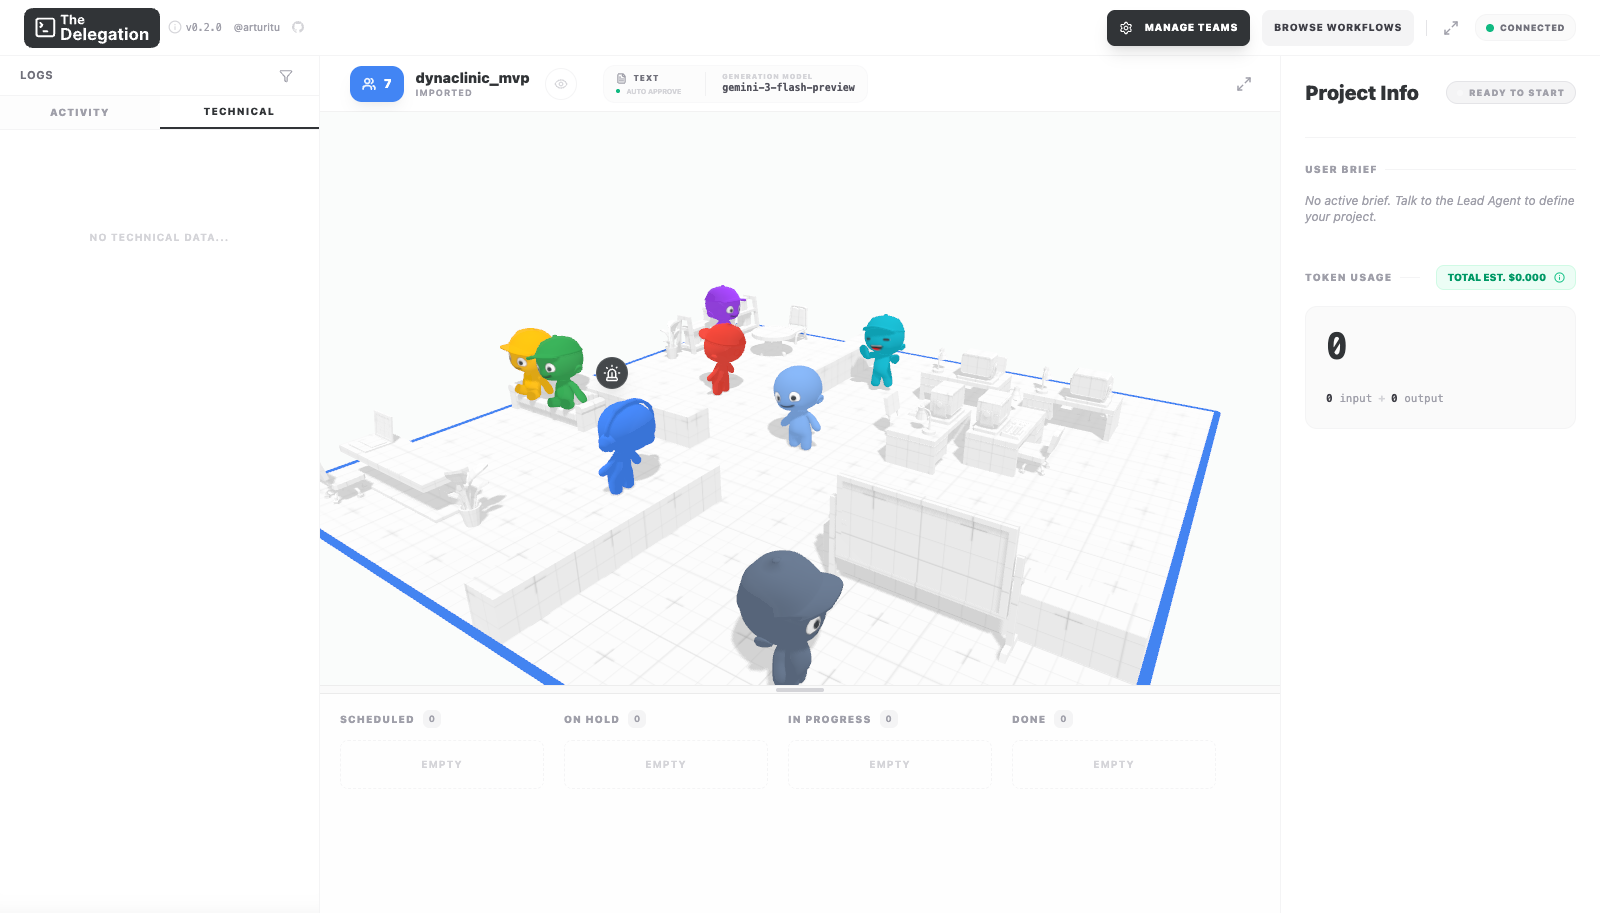
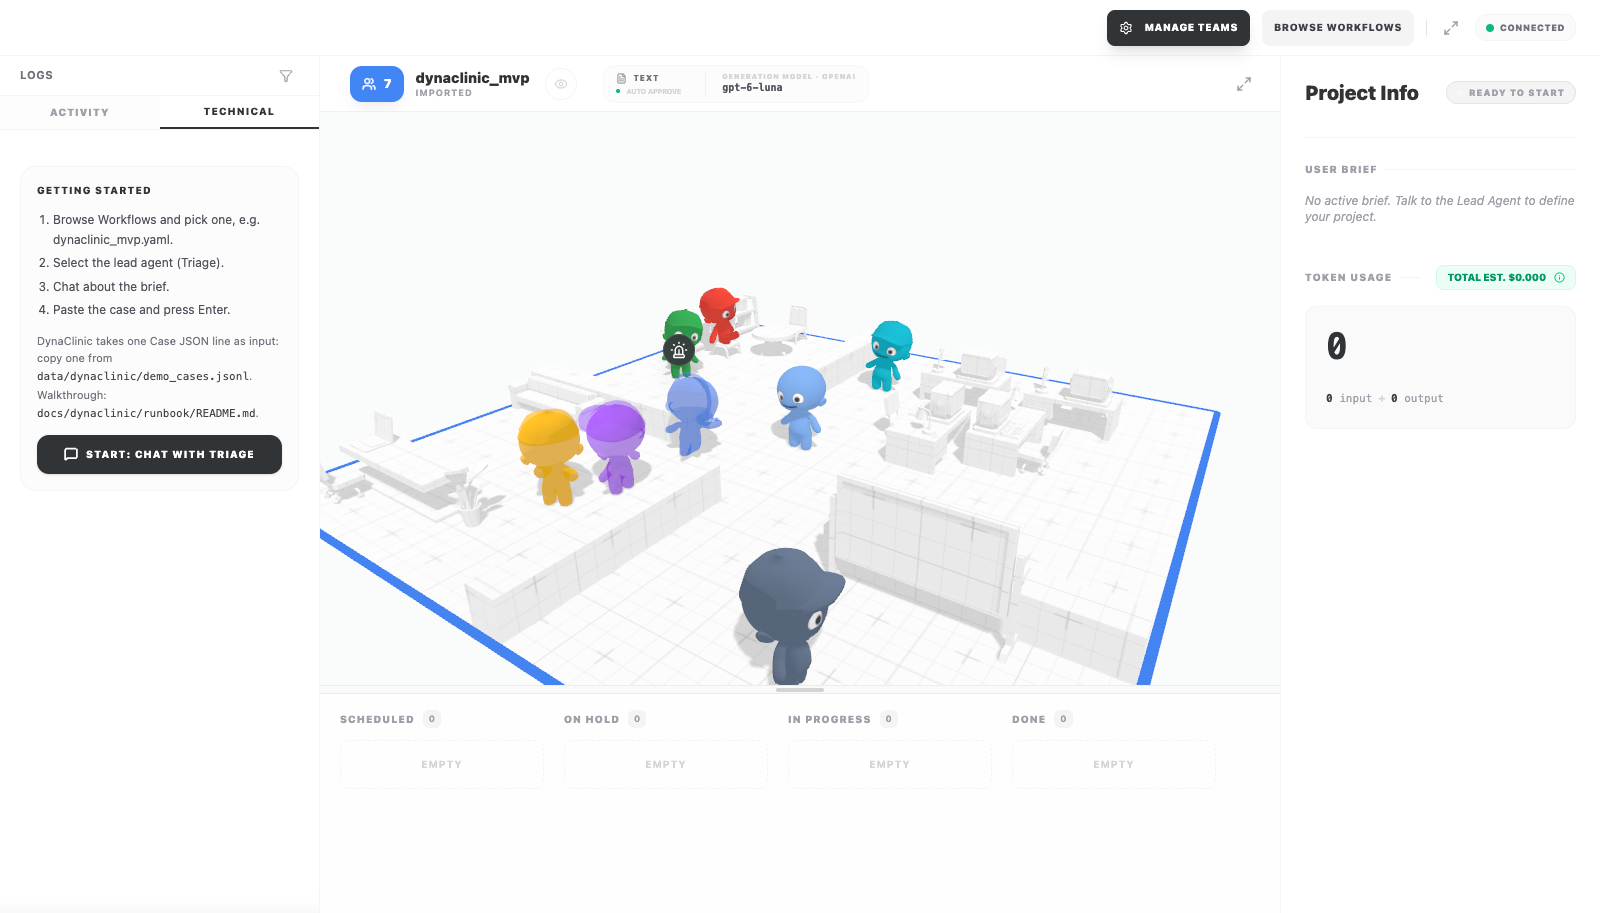
docs(dynaclinic): runbook recaptured with OpenAI default, Getting Started card and closable views; Scenario C switch rate

diff --git a/docs/dynaclinic/runbook/README.md b/docs/dynaclinic/runbook/README.md
@@ -1,13 +1,13 @@
 # DynaClinic in 3D: runbook
 
-How to start the servers, open the three.js office (the-delegation), and replay the three DynaClinic routes from the research proposal: single Primary Care Agent, collaborative Integrated Care Team, and the adversarial switch to the Clinical Critic. Every screenshot here is from a real run on 2026-10-27 (code 231dd81, model gpt-6-luna), not a mock-up.
+How to start the servers, open the three.js office (the-delegation), and replay the three DynaClinic routes from the research proposal: single Primary Care Agent, collaborative Integrated Care Team, and the adversarial switch to the Clinical Critic. Every screenshot here is from a real run on 2026-10-27, not a mock-up. Model gpt-6-luna through the OpenAI API (any OpenAI-compatible endpoint works). Scenarios A and B and the UI shots were captured at 0d3ed91. Scenario C's adversarial run was captured earlier at 231dd81. Between the two commits the DynaClinic routing and scoring code did not change; 0d3ed91 only adds a report of the model name.
 
 Time: about 5 minutes to start, about 30 seconds per case.
 
 ## 1. Prerequisites (once)
 
 - `uv sync` in the repo root, and `npm install` in `the-delegation/`.
-- `.env` in the repo root with `OPENAI_API_KEY` (and optionally `DYNACLINIC_MODEL=gpt-6-luna`). Do not commit it.
+- `.env` in the repo root with `OPENAI_API_KEY`, and optionally `OPENAI_BASE_URL` for an OpenAI-compatible server and `DYNACLINIC_MODEL` (here `gpt-6-luna`). Do not commit it. The 3D app defaults to provider OpenAI and shows the model the backend actually uses (`GET /api/models` returns `default: {provider: "openai", model}`). Gemini stays selectable for text, and is the only option for image, music and video teams.
 - Ports 6400 (backend) and 3100 (3D view) free. Port 3000 often belongs to another local project, which is why the 3D view runs on 3100.
 
 ## 2. Start the servers (two terminals)
@@ -29,10 +29,12 @@ Check: `curl -s localhost:6400/health` returns 200, and http://localhost:3100/th
 1. Open http://localhost:3100/the-delegation/.
 2. Click BROWSE WORKFLOWS, then `dynaclinic_mvp.yaml`.
 3. Reload the page. The scene rebuilds its characters only on load.
-4. The team badge reads `7 dynaclinic_mvp`. Click it to see the hierarchy: Triage (Meta-Controller, lead) over Primary Care and the Integrated Care Team, plus Critic and Synthesizer.
+4. The team badge reads `7 dynaclinic_mvp`, and next to it `GENERATION MODEL · OPENAI gpt-6-luna`. The LOGS panel on the left shows a Getting Started card.
+5. Optional: click the team badge to open the design view (workflow graph and character slots). Close it with the X at the top right, Escape, or a click outside.
 
+![office with the DynaClinic team and the Getting Started card](01-office-team.png)
+![design view with its close button](00b-design-view-close-button.png)
 ![team hierarchy](00-team-hierarchy.png)
-![office with the DynaClinic team](01-office-team.png)
 
 | Character | Node (`yaml_instance/dynaclinic_mvp.yaml`) | Proposal role |
 |---|---|---|
@@ -45,12 +47,14 @@ Check: `curl -s localhost:6400/health` returns 200, and http://localhost:3100/th
 
 ## 4. Run a case
 
-1. Click the lead agent (Triage, blue with headset). Characters wander, so find it first; the right panel shows "Triage, LEAD AGENT".
-2. Click CHAT ABOUT THE BRIEF.
-3. Paste one Case JSON line (below) into the message box and press Enter.
+1. In the Getting Started card on the left, click START: CHAT WITH TRIAGE. It selects the lead agent (Triage, the Meta-Controller) and opens its chat on the right. You can also click the Triage character and then CHAT ABOUT THE BRIEF, but the characters wander.
+2. Paste one Case JSON line (below) into the message box.
+3. Press Enter.
+
+![Getting Started opens the Triage chat](02a-getting-started-chat-open.png)
 4. Watch the office and the kanban: each node becomes a task in IN PROGRESS and then DONE, and the agent characters walk to a desk while they work.
 5. When PROJECT READY appears, click VIEW FINAL OUTPUT for the DynaClinic report (gate verdicts + FINAL ANSWER).
-6. To run another case: reload the page (or use the reset in the project panel), then repeat from step 1.
+6. Close the output with its X or Escape. To run another case, reload the page and repeat from step 1.
 
 The ACTIVITY tab in the left LOGS panel lists every node entry/exit and edge taken. It is the quickest way to see which route the Meta-Controller chose.
 
@@ -70,7 +74,7 @@ What to look for:
 - Triage replies in the chat: `ROUTE: LOW ... deterministic tier LOW (feature score 3)`.
 - Only Primarycare goes to IN PROGRESS. The care team, Critic and Synthesizer stay idle: the Meta-Controller kept the cheap single-agent architecture.
 - Report: `GATE: PASS` (A_SAD pass, T_SAD pass, S_NAP stub), FINAL ANSWER A. The sulfonamide option B is named as conflicting with the allergy.
-- Live run: 19 s, one backend run.
+- Live run: 19 s, one backend run (exactly one POST /api/workflow/execute).
 
 ### Scenario B: high complexity, specialists agree -> collaborative Blackboard
 
@@ -83,9 +87,9 @@ Case: `demo-contested-01` (anticoagulated 74-year-old with an acute subdural hem
 What to look for:
 - Triage: `ROUTE: HIGH ... deterministic tier HIGH (feature score 12)`.
 - Careteam appears three times in IN PROGRESS (Diagnostic Imaging, Pathology/Lab, Pharmacology) and the three characters work in parallel. They post hypotheses, a probability over the options, and atomic claims to the shared Blackboard.
-- DivergenceGate (live output): `MODE: COLLABORATIVE, Divergence 0.14 (tau 0.25); top-1: imaging B, pathology A (abstains), pharmacology B`. Pathology had no basis to choose, so it abstained and did not vote. The gate goes straight to Synthesizer; the Critic stays idle.
+- DivergenceGate (live output): `MODE: COLLABORATIVE, Divergence 0.07 (tau 0.25); top-1: imaging B, pathology B, pharmacology B`. The gate goes straight to Synthesizer; the Critic stays idle. In an earlier run of the same case, Pathology abstained (an even split, so it does not vote) and divergence was 0.14; the route was the same.
 - Report: FINAL ANSWER B, GATE: PASS. Continuing apixaban (A) and thrombolysis (D) are the unsafe options.
-- Live run: 24 s.
+- Live run: 28 s.
 
 ### Scenario C: specialists diverge -> adversarial switch to the Clinical Critic
 
@@ -101,7 +105,17 @@ What to look for:
 - DivergenceGate (live output): `MODE: ADVERSARIAL, Divergence 0.35 (tau 0.25); top-1: pathology C, pharmacology C; conflict set: C`. Both picked C, but with very different confidence (0.55 vs 0.90). The divergence between their distributions passes tau, so the gate switches architecture, as the proposal's conflict-aware routing specifies.
 - Critic goes to IN PROGRESS, and the ACTIVITY log shows `Edge condition met for DivergenceGate -> Critic`. The Critic splits the Blackboard into atomic claims and scores each with the hybrid rule / LLM-judge estimator. It flagged three claims in this run (see Findings).
 - Synthesizer then reconciles, and Layer 4 passes: FINAL ANSWER C.
-- Live run: 37 s. In a separate headless run of the same case, Imaging chose B (V/Q scan) and Pharmacology chose C, with divergence 0.52. The switch fired in both runs, but the exact numbers vary between runs.
+- Live run: 37 s.
+
+How often this case switches (5 real runs, same routing code):
+
+| Run | Triage | Specialists consulted | Divergence | Mode |
+|---|---|---|---|---|
+| headless (SDK) | HIGH | imaging B, pathology abstains, pharmacology C | 0.52 | ADVERSARIAL |
+| 3D, shown above | MODERATE | pathology C (0.55), pharmacology C (0.90) | 0.35 | ADVERSARIAL |
+| 3D x3, after the UI changes | MODERATE | pathology abstains, pharmacology abstains | 0.00 | COLLABORATIVE |
+
+All five gave FINAL ANSWER C. The switch depends on which specialists triage consults. MODERATE picks the first two with data for the case (Pharmacology, then Pathology/Lab). Neither can choose a diagnostic step for this case from its own modality, so when both abstain there is no informed vote and the gate stays collaborative (see Findings). Treat Scenario C as "can switch", not "always switches".
 
 ## 6. Proposal coverage you can and cannot see
 
@@ -130,16 +144,18 @@ Ctrl-C both terminals. Check nothing is left: `lsof -iTCP:6400 -iTCP:3100 -sTCP:
 | No CHAT ABOUT THE BRIEF button | You selected a non-lead character; select Triage |
 | Top bar not CONNECTED | Backend not running on 6400, or started from the wrong directory |
 | Run fails immediately | `.env` missing `OPENAI_API_KEY`, or the model is unreachable (the pipeline falls back to `DYNACLINIC_FALLBACK_MODELS` if set) |
+| Badge shows `gpt-5-mini` instead of your model | The backend is running older code, or the team was imported before the change. Restart the backend, then re-import the workflow |
+| A full-screen view will not close | Press Escape, or click the X at the top right. Every overlay supports both |
 | `--strictPort` error | Port 3100 in use; pick another port. Do not stop the process on 3000 |
 | Automated screenshots show a blank canvas | Some automation browsers do not render WebGL/WebGPU. Use real Chrome (headless works: `--headless=new --remote-debugging-port=<port>`) |
 
-Headless capture tip: under Vite dev, page scripts can import the app's own stores, which avoids clicking moving characters. For example, `const m = await import("/the-delegation/src/integration/store/uiStore.ts"); m.useUiStore.getState().setSelectedNpc(1)` selects the lead agent, and `coreStore.ts` `useCoreStore.getState().resetProject()` resets between cases.
+Headless capture tip: click the Getting Started button (text "START: CHAT WITH") instead of the moving character. Under Vite dev, page scripts can also import the app's own stores; for example, `coreStore.ts` `useCoreStore.getState().resetProject()` resets between cases.
 
 ## 9. Findings from this capture (not fixed)
 
 - Deterministic nodes (CaseInput, DivergenceGate, SafetyGate, Report) stay in IN PROGRESS / WORKING on the kanban after the run completes. These are the nodes without an agent character; the cause was not investigated.
 - With a MODERATE route the kanban still shows all three specialist cards as working, although only the two consulted specialists post to the Blackboard.
-- The header's "GENERATION MODEL gemini-3-flash-preview" is the 3D app's own default label. DynaClinic calls run on the backend model (gpt-6-luna here).
+- When every consulted specialist abstains (an even split), DivergenceGate reports divergence 0.00 and stays collaborative, so the Synthesizer answers with no informed specialist vote. A safer rule would consult the remaining specialist, or escalate to the Critic, when all votes abstain. MODERATE also picks specialists by which data the case contains, not by which specialty the question needs.
 - In Scenario C the Critic labelled "Low-molecular-weight heparin is preferred over warfarin for anticoagulation during pregnancy" as `[contradiction]`. That claim is correct; the KB has no pregnancy rule to credit it, and the judge sees only the case text. The final answer was unaffected.
 - Node text (Blackboard, divergence, flagged claims) is not shown inside the 3D view; only the route is.
 - From the f6 report, minor 3D behaviour: arrivals without a seat snap stop 0.16 to 0.25 m short; a boardroom standing spot can overlap spawn 5; `setNpcWorking` does not fall back when another agent holds the desk; an agent left seated at a desk never wanders again.
